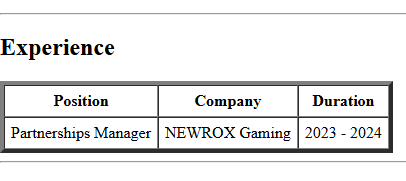
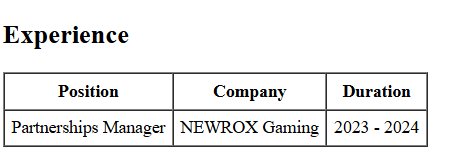
reduce table border width in experience and education sections; update screenshots

Changed region(s): [[0.0, 0.4444, 1.0, 0.9673], [0.0, 0.1569, 0.2956, 0.3399], [0.0, 0.0523, 1.0, 0.0784]]

diff --git a/index.html b/index.html
@@ -37,7 +37,7 @@
     <hr />
 
     <h2>Experience</h2>
-    <table border="4" cellpadding="6" cellspacing="0">
+    <table border="1" cellpadding="6" cellspacing="0">
       <tr>
         <th>Position</th>
         <th>Company</th>
@@ -113,7 +113,7 @@
     <hr />
 
     <h2>Education</h2>
-    <table border="4" cellpadding="6" cellspacing="0">
+    <table border="1" cellpadding="6" cellspacing="0">
       <tr>
         <th>Degree</th>
         <th>Institution</th>
